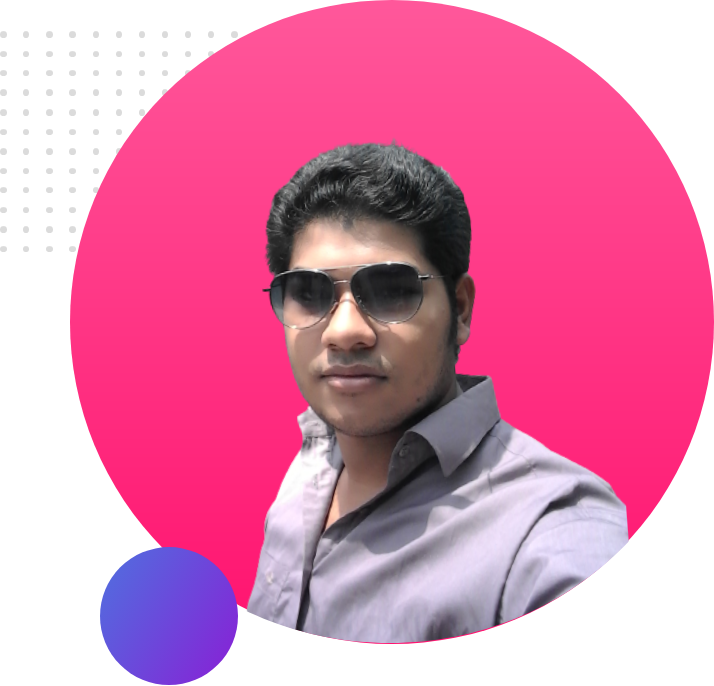
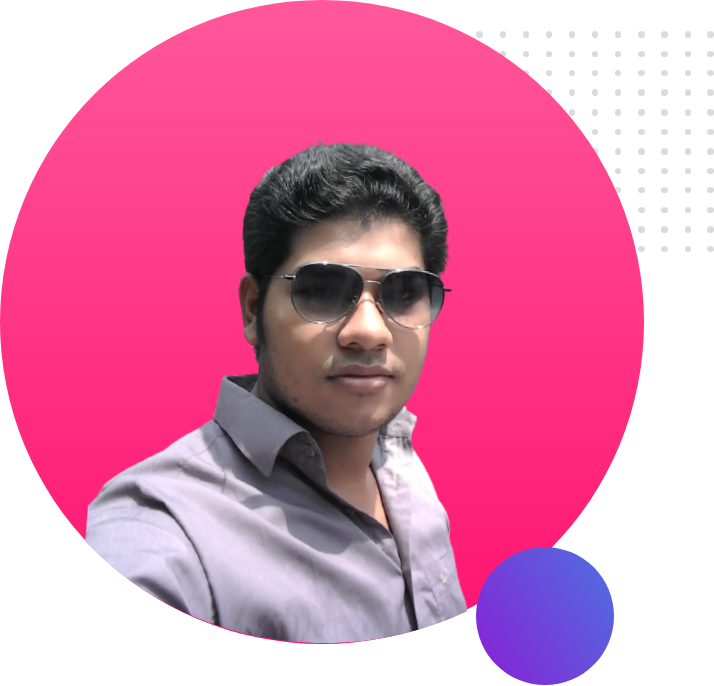
first commit

diff --git a/index.html b/index.html
@@ -3,91 +3,96 @@
 
 <head>
     <meta charset="UTF-8">
-    <meta http-equiv="X-UA-Compatible" content="IE=edge">
     <meta name="viewport" content="width=device-width, initial-scale=1.0">
-    <title>Rezwanur Rahman Portfolio</title>
-
-    <link rel="preconnect" href="https://fonts.googleapis.com">
-    <link rel="preconnect" href="https://fonts.gstatic.com" crossorigin>
-    <link href="https://fonts.googleapis.com/css2?family=Oxygen&display=swap" rel="stylesheet">
-
+    <meta http-equiv="X-UA-Compatible" content="ie=edge">
+    <title>Rezwanur-Rahman Porrtfolio</title>
+    <link href="https://fonts.googleapis.com/css?family=Poppins&display=swap" rel="stylesheet">
     <link rel="stylesheet" href="style.css">
-
 </head>
 
 <body>
-    <section class="top-banner flexible-container">
-        <div class="half-width">
-            <h1>Welcome to</h1>
-            <h1>
-                <span class="name-color">Rezwanur Rahman</span> <span class="World">World</span>
-            </h1>
-            <h3>A Full-Stac Web Developer</h3>
-            <p>
-                If youre interested in making a responsive website and Full-Stac developer portfolio with a very
-                attractive
-                interface, 'Rezwanur Rahamn' portfolio website is a great example. He uses a stylish and clean black
-                background with a concise and direct introduction conveniently located on the loading page.
-            </p>
-            <p>
-                As you scroll, new sections will load, including blog posts, contact details, and professional skills.
+    <section class="top-banner">
 
+        <div class="half-width">
+
+            <h1>Welcome To</h1>
+            <h1><span>Rezwanur Rahman</span> World &excl; </h1>
+
+            <h3>Build full-stack Web Development</h3>
+
+            <p>
+                You might saw me jumping, climbing buildings, and stopping trains. But nobody pays me a dime for that
+                work. That's why I am learning and mastering web development. I will not stop until I become the Web
+                Development Hero.
             </p>
-            <a class="link-button" target="blank" href="https://www.linkedin.com/in/rre9697">Hire Me</a>
+
+            <a class="anchor-button" target="_blank" href="https://www.linkedin.com/in/rre202926">HIRE
+                ME</a>
 
         </div>
+
         <div class="half-width">
             <img src="image/my-img.png" alt="">
         </div>
+
     </section>
 
-    <section class="middle-banner flexible-container">
+    <section class="middle-banner">
+
         <div class="half-width">
             <img src="image/my-img2.png" alt="">
         </div>
+
         <div class="half-width">
-            <h1> Dream Big </h1>
-            <h2> Become a Web Developer </h2>
+            <h2>Dream Big</h2>
+
+            <h3>Become a full-stack web developer</h3>
+
             <p>
                 I already learned the basic HTML and CSS. I can build any simple website. I can even teach my grandma
-                how to make simple website. My goal is to build 3 websites and learn advanced topics.
+                how
+                to make simple website. My goal is to build 3 websites and learn advanced topics.
             </p>
-            <a class="resume-button" target="blank" href="">DOWNLOAD RESUME</a>
+
+            <a class="anchor-button" target="blank" href="https://www.linkedin.com/in/rre202926">DOWNLOAD RESUME</a>
         </div>
+
+    </section>
+    <section class="experience-area">
+
+        <h2 class="experience-title">Experiences</h2>
+
+        <div class="half-width" id="full-developer">
+            <h2>Full Stack Web Developer</h2>
+
+            <h3>2021-Present | Pro Level Developer</h3>
+
+            <p>
+                I am the master of HTML, CSS and Javascript. I know everything needed to make a website function,
+                efficient. I didn't stop with the web. I went beyond with most popular Javascript framework called Vue
+                JS. I even know the deployment, server and security. I will give you 100% web solution.
+            </p>
+
+        </div>
+
+        <div class="half-width" id="baby-developer">
+
+            <h2>Baby Web Developer</h2>
+
+            <h3>2020-2021 | Programming Hero Learner</h3>
+
+            <p>
+                They didn't offer me a job. But I made myself as a remove web developer. I made their website and showed
+                it to them. They liked it. And uploaded the content. It was fun working at Programming Hero.
+            </p>
+
+        </div>
+
     </section>
 
-    <h1> Experiences </h1>
-
-    <section class="experienxe-area">
-
-        <div class="flexible-container">
-            <div id="full-developer" class="experience-item">
-                <h2> Full Stack Web Developer </h2>
-
-                <h3> 2021-Present | Pro Level Developer </h3>
-
-                <p>
-                    I am the master of HTML, CSS and Javascript. I know everything needed to make a website function,
-                    efficient. I didn't stop with the web. I went beyond with most popular Javascript framework called
-                    Vue JS. I even know the deployment, server and security. I will give you 100% web solution.
-                </p>
-            </div>
-            <div id="baby-developer" class="experience-item">
-                <h2> Baby Web Developer </h2>
-
-                <h3> 2020-2021 | Programming Hero Learner </h3>
-
-                <p>
-                    They didn't offer me a job. But I made myself as a remove web developer. I made their website and
-                    showed it to them. They liked it. And uploaded the content. It was fun working at Programming Hero.
-                </p>
-            </div>
-        </div>
-    </section>
-
-    <p>
-        &copy;Rezwanur-Rahman 2021, A Web Development Initiave
-    </p>
+    <footer>
+        <p>&copy;Rezwanur-Rahman 2021, a Web Development initiative.</p>
+    </footer>
 
 </body>
 

diff --git a/style.css b/style.css
@@ -1,80 +1,79 @@
 body{
-    font-family: 'Oxygen', sans-serif;
-    margin: 0%;
+    margin: 0;
+    font-family: 'Poppins', sans-serif;
+}
+section{
+    height: 500px;
+    padding-bottom: 150px;
+}
+.top-banner{
+    background-image: url("image/top-banner.png");
+    background-repeat: no-repeat;
+}
+.half-width{
+    width:40%;
+    float: left;
+    margin-left: 5%;
+    padding-left: 2%;
 }
 h1{
     font-size: 50px;
-    color: #000000;
+}
+h1 span{
+    color: orange;
 }
 h3{
-    color: salmon;
-}
-.name-color{color: rgb(231, 102, 124);}
-
-.world{color: deepskyblue}
-
-.flexible-container{display: flex;
-    margin-bottom: 100px;
-}
-
-.half-width {
-    width: 50%;
-    padding-left: 50px;
-    padding-top: 50px;
+    color: coral;
 }
 .half-width img{
-    width: 0%;
+    width: 100%;
 }
-}
-.link-button{
+.anchor-button{
     text-decoration: none;
-    background-image: linear-gradient(blue, skyblue);
+    background: linear-gradient(45deg, rgb(10, 68, 226), rgb(26, 163, 187));
     padding: 10px 40px;
-    border-radius: 10px;
-    color: oldlace;
+    border-radius: 5px;
+    color: white;
     font-weight: 700;
 }
-.top-banner{
-    background-image: url(image/top-banner.png);
-    background-repeat: no-repeat;
+p{
+    color: dimgray;
 }
 .middle-banner{
-    background-image: url(image/dream-bg.png);
+    background-image: url("image/middle-banner.png");
     background-repeat: no-repeat;
     background-position: right;
 }
+h2{
+    font-size: 40px;
 }
-.resume-button{
-    text-decoration: none;
-    background-image: linear-gradient(blue, skyblue);
-    padding: 10px 40px;
-    border-radius: 10px;
-    color: oldlace;
-    font-weight: 700;
-}
-.experienxe-area{
-    display: flex;
-    background-image: url(image/exp-bg.png);
+.experience-area{
+    background-image: url("image/bottom-banner.png");
     background-repeat: no-repeat;
     background-position: left;
 }
-.experience-item{
-    width: 40%;
-    margin-left: 5%;
-    margin-right: 5%;
-    padding-left: 20px;
-    border-radius: 10px;
-    box-shadow: 10px 10px 40px steelblue;
+.experience-title{
+    padding-left: 60px;
 }
-#baby-developer{
-    border-left: 7px solid;
-    border-image: linear-gradient(blue, cyan);
-    border-image-slice: 1;
-    padding-left: 20px;
+.experience-area h3{
+    color: orange;
+}
+
+.experience-area div{
+    box-shadow: 5px 7px 40px rgb(75, 135, 212);
+    height: 80%;
+    border-radius: 50px;
 }
 #full-developer{
     border-left: 7px solid;
-    border-image: linear-gradient(rgb(247, 211, 10), cyan);
+    border-image: linear-gradient(180deg, rgb(122, 195, 255), rgb(15, 42, 197));
     border-image-slice: 1;
 }
-p{text-align: center;}
+#baby-developer{
+    border-left: 7px solid;
+    border-image: linear-gradient(180deg, rgb(0, 183, 255), rgb(4, 0, 255));
+    border-image-slice: 1;
+}
+footer p{
+    text-align: center;
+}
